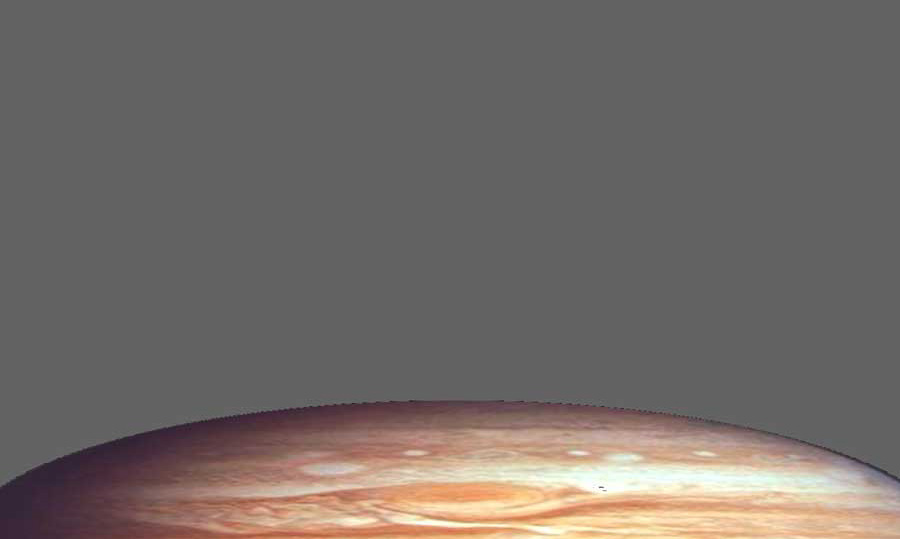
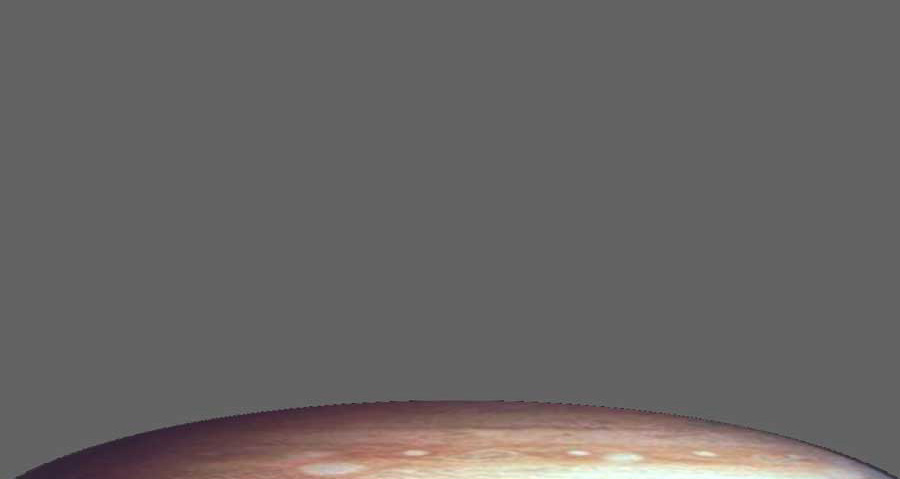
updated graphics, background is on by default

Changed region(s): [[0.0, 0.7307, 1.0, 1.0]]

diff --git a/energyconservation3/src/edu/colorado/phet/ec3/EC3RootNode.java b/energyconservation3/src/edu/colorado/phet/ec3/EC3RootNode.java
@@ -90,7 +90,7 @@ public class EC3RootNode extends PhetRootPNode {
             }
 
             public void componentResized( ComponentEvent e ) {
-                updateImage();
+                updateBackgroundImage();
             }
 
             public void componentShown( ComponentEvent e ) {
@@ -107,23 +107,28 @@ public class EC3RootNode extends PhetRootPNode {
         return screenBackground;
     }
 
-    public void setBackground( Image image, double scale, double pi, Planet planet ) {
+    public void setBackground( Image image ) {
         if( this.backgroundImage != image ) {
             this.backgroundImage = image;
-            updateImage();
+            updateBackgroundImage();
         }
     }
 
-    private void updateImage() {
+    private void updateBackgroundImage() {
         BufferedImage i2 = BufferedImageUtils.toBufferedImage( backgroundImage );
         if( ec3Canvas.getHeight() > 0 && ec3Canvas.getWidth() > 0 ) {
-//            i2 = BufferedImageUtils.rescaleYMaintainAspectRatio( i2, ec3Canvas.getHeight() );
             i2 = BufferedImageUtils.rescaleYMaintainAspectRatio( i2, ec3Canvas.getHeight() );
             System.out.println( "i2.getHeight( ) = " + i2.getHeight() + ", canvasHeight=" + ec3Canvas.getHeight() );
         }
         screenBackground.removeAllChildren();
         PImage child = new PImage( i2 );
 //        double overshootY = ec3Canvas.getHeight() - child.getFullBounds().getHeight();
+        double maxY = floorGraphic.getGlobalFullBounds().getMinY();
+        Point2D.Double loc = new Point2D.Double( 0, maxY );
+        screenBackground.globalToLocal( loc );
+//        child.translate( 0, -loc.y + getEC3Panel().getHeight() );
+        double dy = child.getFullBounds().getHeight() - maxY;
+        child.translate( 0, -dy );
         screenBackground.addChild( child );
     }
 
@@ -338,7 +343,7 @@ public class EC3RootNode extends PhetRootPNode {
         Graphics2D g2 = image.createGraphics();
         g2.setColor( new Color( 0, 0, 0, 255 ) );
         g2.fillRect( 0, 0, 1, 1 );
-        setBackground( image, 0.000000001, Math.PI, null );
+        setBackground( image );
     }
 
     protected void layoutChildren() {

diff --git a/energyconservation3/src/edu/colorado/phet/ec3/Planet.java b/energyconservation3/src/edu/colorado/phet/ec3/Planet.java
@@ -54,7 +54,7 @@ public abstract class Planet {
             catch( IOException e ) {
                 e.printStackTrace();
             }
-            module.getEnergyConservationCanvas().getRootNode().setBackground( image, 0.025, Math.PI, this );
+            module.getEnergyConservationCanvas().getRootNode().setBackground( image );
         }
     }
 
@@ -66,12 +66,13 @@ public abstract class Planet {
         protected void setupImage( EC3Module module ) {
             BufferedImage image = null;
             try {
-                image = ImageLoader.loadBufferedImage( "images/background-gif.gif" );
+//                image = ImageLoader.loadBufferedImage( "images/background-gif.gif" );
+                image = ImageLoader.loadBufferedImage( "images/earth3.gif" );
             }
             catch( IOException e ) {
                 e.printStackTrace();
             }
-            module.getEnergyConservationCanvas().getRootNode().setBackground( image, 0.025, Math.PI, this );
+            module.getEnergyConservationCanvas().getRootNode().setBackground( image );
         }
     }
 
@@ -88,7 +89,7 @@ public abstract class Planet {
             catch( IOException e ) {
                 e.printStackTrace();
             }
-            module.getEnergyConservationCanvas().getRootNode().setBackground( image, 0.02, Math.PI, this );
+            module.getEnergyConservationCanvas().getRootNode().setBackground( image );
         }
     }
 
@@ -100,7 +101,7 @@ public abstract class Planet {
         protected void setupImage( EC3Module module ) {
             try {
                 BufferedImage image = ImageLoader.loadBufferedImage( "images/jupiter4.jpg" );
-                module.getEnergyConservationCanvas().getRootNode().setBackground( image, 0.018, Math.PI, this );
+                module.getEnergyConservationCanvas().getRootNode().setBackground( image );
             }
             catch( IOException e1 ) {
                 e1.printStackTrace();

diff --git a/energyconservation3/src/edu/colorado/phet/ec3/EnergyPanel.java b/energyconservation3/src/edu/colorado/phet/ec3/EnergyPanel.java
@@ -221,7 +221,7 @@ public class EnergyPanel extends ControlPanel {
         VerticalLayoutPanel verticalLayoutPanel = new VerticalLayoutPanel();
         verticalLayoutPanel.setBorder( BorderFactory.createTitledBorder( "Location" ) );
         verticalLayoutPanel.setFillHorizontal();
-        showBackgroundCheckbox = new JCheckBox( "Show Background", false );
+        showBackgroundCheckbox = new JCheckBox( "Show Background", true );
         verticalLayoutPanel.add( showBackgroundCheckbox );
         verticalLayoutPanel.add( space );
         verticalLayoutPanel.add( moon );
